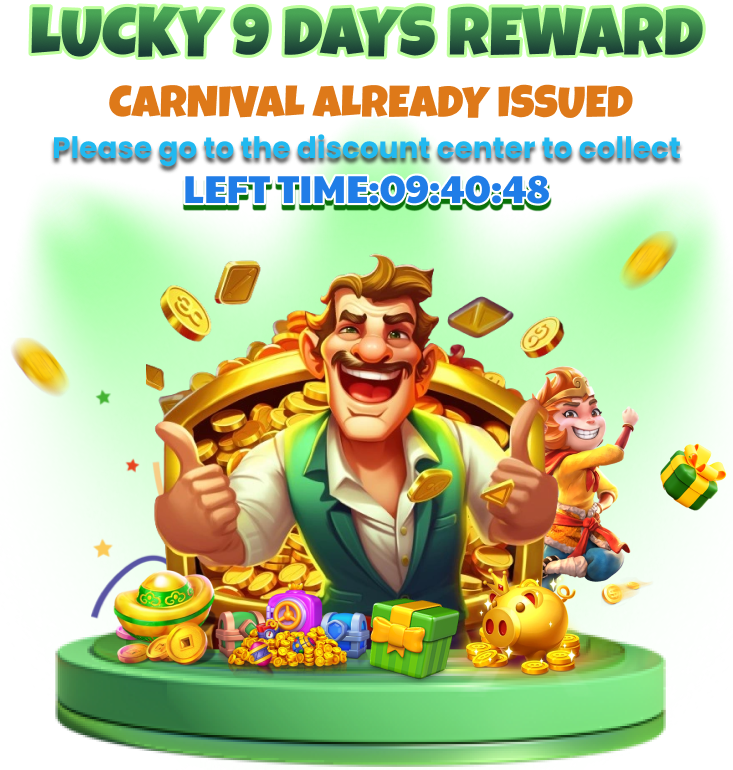
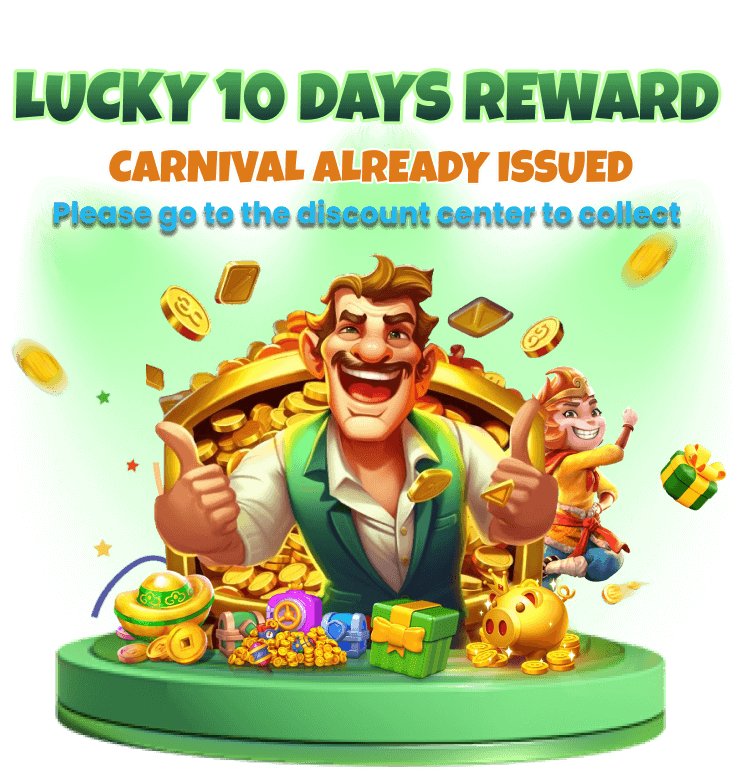
feat: [pak h5] Add claim api back, update lucky 10 day image

diff --git a/pak-static-h5/src/components/modal/DepositPromoModal.vue b/pak-static-h5/src/components/modal/DepositPromoModal.vue
@@ -73,7 +73,7 @@ const combinedStatus = computed(() => ({
   depositCount: store.depositCount
 }));
 
-const isLuckyDay = computed(() => moment().date() % 10 === 9);
+const isLuckyDay = computed(() => moment().date() % 10 === 1);
 
 const modalImageIndex = computed(() => {
   if (modalIndex.value === 1 && (isAndroid() || store.isFromGooglePackage)) return 6;
@@ -119,6 +119,24 @@ const handleAppLoginPromoClaim = async () => {
       showModal.value = false;
       router.push("/account/profile");
       shouldCheckAppAgain.value = true;
+    } else if (!combinedStatus.value.hadClaim) {
+      try {
+        const res = await eventapi.post("/session/app-login-bonus/claimBonus?promoCode=pak-app-login-phone-bonus");
+        if (res.code === 0) {
+          $q.notify({
+            type: "positive",
+            position: "top",
+            message: t("modal.appLoginBonus.claimBonus", { amount: res.data }),
+            icon: "check_circle_outline"
+          });
+          store.getBalance();
+          showModal.value = false;
+        }
+      } catch (e) {
+        console.error(e);
+      }
+    } else {
+      showModal.value = false;
     }
   } else if (!combinedStatus.value.isAppLogin) {
     const downloadTag = document.createElement("a");
@@ -156,7 +174,10 @@ const btnAction = () => {
 };
 
 const checkAppLogin = async () => {
-  if (combinedStatus.value.hadClaim) return;
+  if (combinedStatus.value.hadClaim) {
+    showNextModal();
+    return;
+  }
   try {
     if (isAndroid() || store.isFromGooglePackage) {
       const res = await eventapi.get("/session/app-login-bonus/popUp?promoCode=pak-app-login-phone-bonus");

diff --git a/pak-static-h5/src/pages/HomePage.vue b/pak-static-h5/src/pages/HomePage.vue
@@ -1616,7 +1616,8 @@ import {
   watchEffect,
   onActivated,
   provide,
-  nextTick
+  nextTick,
+  onDeactivated
 } from "vue";
 import { useRoute, useRouter } from "vue-router";
 import { api } from "boot/axios";
@@ -1688,6 +1689,10 @@ const handleScroll = () => {
 
   lastScrollTop = currentScroll <= 0 ? 0 : currentScroll;
 };
+
+onDeactivated(() => {
+  popupPromo.value = "";
+});
 onMounted(() => {
   window.addEventListener("scroll", handleScroll);
 });
